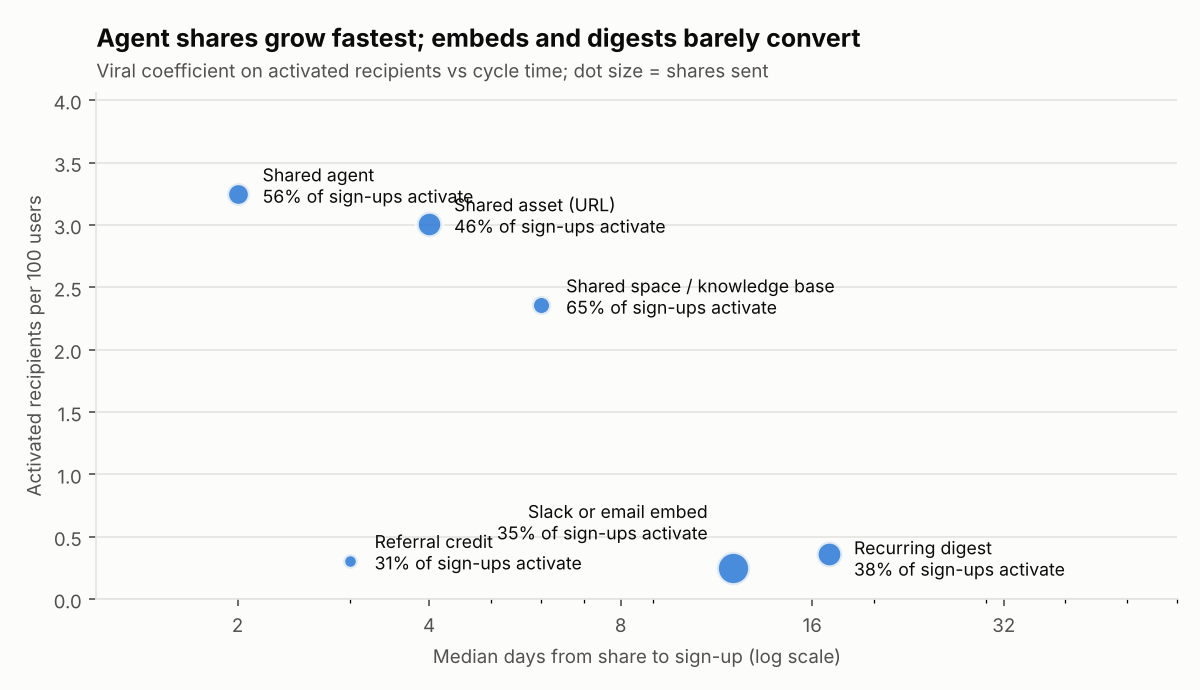
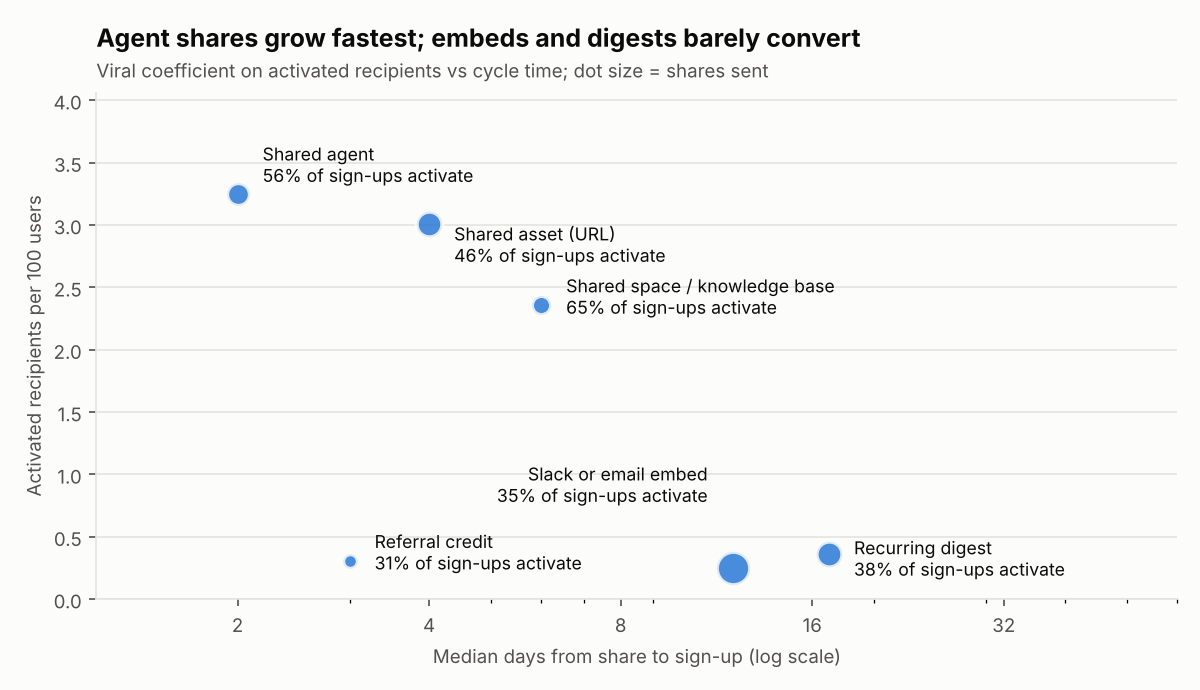
Simulate recipient-side and two-sided sharing rewards
Policies can now reward the sharer, the recipient (a welcome credit on their
first agent action) or both. Recipient behavior is a separate stated
assumption. Existing arms are unchanged. Also fixes overlapping labels in the
viral loops chart.

Claude-Session: https://claude.ai/code/session_01MKijBcGuc5BL7f85fvibV2

Changed region(s): [[0.2158, 0.213, 0.555, 0.3957], [0.4008, 0.6696, 0.5858, 0.7913]]

diff --git a/sangam/policy.py b/sangam/policy.py
@@ -52,6 +52,10 @@ class Policy(BaseModel):
     reward_event: RewardEvent = Field(
         description="What earns the reward: the share being sent, the recipient signing up, or the recipient "
                     "completing their first agent action (activation). 'none' only for a no-reward baseline.")
+    rewarded: Literal["sharer", "recipient", "both"] = Field(
+        default="sharer",
+        description="Who receives the reward: the person who shared (sharer), the person they shared with "
+                    "(recipient, paid on their first agent action), or both.")
     loops: list[Literal["agent", "asset", "space", "embed", "digest", "referral"]] = Field(
         default_factory=lambda: list(LOOPS),
         description="Which kinds of share count: agent (shared agent), asset (shared document, analysis or "
@@ -108,6 +112,12 @@ BUILTIN = {
                                       require_admin_ok_external=False),
     "stage_aware": Policy(name="Stage-aware activation reward", reward_event="recipient_first_agent_action",
                           loop_weights=WEIGHTS, pre_contract=["same_company"], post_contract=["other_company"]),
+    "stage_aware_recipient": Policy(name="Stage-aware, recipient rewarded", rewarded="recipient",
+                                    reward_event="recipient_first_agent_action", loop_weights=WEIGHTS,
+                                    pre_contract=["same_company"], post_contract=["other_company"]),
+    "stage_aware_both": Policy(name="Stage-aware, sharer and recipient rewarded", rewarded="both",
+                               reward_event="recipient_first_agent_action", loop_weights=WEIGHTS,
+                               pre_contract=["same_company"], post_contract=["other_company"]),
 }
 
 # How people respond to each kind of incentive. These are the growth team's stated
@@ -122,6 +132,11 @@ BEHAVIOR = {
     "recipient_first_agent_action": {"uplift": 0.25, "quality": 0.90, "fatigue": 1.00,
                                      "note": "sharers pick people who will actually use it"},
 }
+# A reward for the recipient (a welcome credit on their first agent action) changes the
+# recipient, not the sharer: more of them sign up and more of those activate. Sharers
+# share a little more when they have a gift to offer.
+RECIPIENT_BEHAVIOR = {"signup_lift": 0.15, "activation_lift": 0.20, "sharer_uplift": 0.10,
+                      "note": "a welcome credit nudges recipients to sign up and try an agent"}
 LICENSED_FIRST_ACTION = 0.5     # chance a licensed colleague's first agent action follows a share
 
 
@@ -153,7 +168,14 @@ def render_card(p: Policy) -> str:
     lines = [f"## {p.name}"]
     if p.reward_event == "none":
         return "\n\n".join(lines + ["Nobody earns a reward for sharing."])
-    lines.append(f"**What earns a reward.** A person earns a reward {_EVENT[p.reward_event]}.")
+    if p.rewarded == "recipient":
+        lines.append("**What earns a reward.** The person who receives a share earns a reward when they complete "
+                     "their first agent action. The person who shared earns nothing.")
+    else:
+        lines.append(f"**What earns a reward.** A person earns a reward {_EVENT[p.reward_event]}.")
+        if p.rewarded == "both":
+            lines.append("**The recipient too.** The person they shared with also earns a reward on their first "
+                         "agent action.")
     if p.reward:
         lines.append(f"**The reward.** {p.reward[0].upper() + p.reward[1:]}.")
     stage = []
@@ -273,6 +295,11 @@ def _context(ds: Dataset, ready_rule: dict, outcomes: pd.DataFrame, data_dir="da
 def _simulate_one(ctx: dict, p: Policy) -> dict:
     seg = ctx["seg"].copy()
     b = BEHAVIOR[p.reward_event]
+    rb = RECIPIENT_BEHAVIOR
+    pays_sharer = p.reward_event != "none" and p.rewarded in ("sharer", "both")
+    pays_recipient = p.reward_event != "none" and p.rewarded in ("recipient", "both")
+    if p.reward_event != "none" and p.rewarded == "recipient":
+        b = {"uplift": rb["sharer_uplift"], "quality": 1.0, "fatigue": 1.0, "note": rb["note"]}
     w = p.loop_weights
     if p.reward_event == "none":
         elig = np.zeros(len(seg), bool)
@@ -283,23 +310,31 @@ def _simulate_one(ctx: dict, p: Policy) -> dict:
                 & (p.pay_for_licensed_recipients | ~seg.recipient_licensed)).to_numpy()
     up = np.where(elig, b["uplift"] * seg.loop.map(lambda l: w.get(l, 1.0)), 0.0)
     fat, q = b["fatigue"], b["quality"]
+    sm = 1 + rb["signup_lift"] if pays_recipient else 1.0           # recipient-side lifts, eligible shares only
+    mult = np.where(elig, sm * (1 + rb["activation_lift"]) if pays_recipient else 1.0, 1.0)
+    smult = np.where(elig, sm, 1.0)
     new_users = (~seg.recipient_licensed) * seg.n * (fat + up * q)
     lic_actions = seg.recipient_licensed * seg.n * (1 + up) * seg.view * LICENSED_FIRST_ACTION
-    if p.reward_event == "none":
+    act_new = new_users * seg.act * mult                             # activated new recipients per segment
+    if not pays_sharer:
         paid = 0.0
     elif p.reward_event == "share_sent":
         paid = (seg.n * (1 + up) * elig).sum()
     elif p.reward_event == "recipient_signup":
-        paid = (new_users * seg.signup * elig).sum()
+        paid = (new_users * seg.signup * smult * elig).sum()
     else:
-        paid = ((new_users * seg.act + lic_actions * p.pay_for_licensed_recipients) * elig).sum()
+        paid = ((act_new + lic_actions * p.pay_for_licensed_recipients) * elig).sum()
+    if pays_recipient:
+        paid += (act_new * elig).sum()                               # one welcome credit per activated recipient
     # expansion: extra same-company activated recipients at pre-contract prospects
     rate = seg[(seg.relation == "same_company") & (seg.stage == "pre_contract")].groupby("loop")[
         ["signup", "act"]].mean()
     pre_ok = "same_company" in p.pre_contract and p.reward_event != "none"
     upl = {l: (b["uplift"] * w.get(l, 1.0) if pre_ok and l in p.loops else 0.0) for l in rate.index}
+    rm = {l: (sm * (1 + rb["activation_lift"]) if pre_ok and pays_recipient and l in p.loops else 1.0)
+          for l in rate.index}
     pa = ctx["per_acct"]
-    extra = pa.assign(d=pa.n * pa.loop.map(lambda l: (fat - 1) + upl.get(l, 0) * q)
+    extra = pa.assign(d=pa.n * pa.loop.map(lambda l: (fat + upl.get(l, 0) * q) * rm.get(l, 1.0) - 1)
                       * pa.loop.map(rate.signup) * pa.loop.map(rate.act))
     delta = extra.groupby("sender_account").d.sum().clip(lower=0)
     need = (ctx["k"] - ctx["base_act"].reindex(delta.index).fillna(0)).clip(lower=0)
@@ -307,9 +342,10 @@ def _simulate_one(ctx: dict, p: Policy) -> dict:
     # landing: extra activated external recipients from post-contract senders
     m = ((seg.stage == "post_contract") & (seg.relation == "other_company") & ~seg.recipient_licensed).to_numpy()
     post = seg[m]
-    seeded = float((post.n * (fat - 1 + up[m] * q) * post.signup * post.act).sum() * ctx["seed_rate"])
-    return {"shares": round(float((seg.n * (1 + up)).sum())), "signups": round(float((new_users * seg.signup).sum())),
-            "activated_new_users": round(float((new_users * seg.act).sum())), "rewards_paid": round(float(paid)),
+    seeded = float((post.n * ((fat + up[m] * q) * mult[m] - 1) * post.signup * post.act).sum() * ctx["seed_rate"])
+    return {"shares": round(float((seg.n * (1 + up)).sum())),
+            "signups": round(float((new_users * seg.signup * smult).sum())),
+            "activated_new_users": round(float(act_new.sum())), "rewards_paid": round(float(paid)),
             "extra_prospects_over_trigger": crossed,
             "extra_companies_seeded_by_customers": round(seeded, 1), "assumption": b["note"]}
 

diff --git a/sangam/readme.py b/sangam/readme.py
@@ -61,7 +61,9 @@ def _loop_table(lp: dict) -> str:
 ARM_LABEL = {"no_reward": "No reward (status quo)", "per_share_sent": "Per share sent",
              "per_signup": "Per recipient sign-up", "per_activation": "Per recipient first agent action",
              "per_activation_weighted": "Per first agent action, weighted by share type",
-             "stage_aware": "Stage-aware (see below)"}
+             "stage_aware": "Stage-aware, sharer rewarded (see below)",
+             "stage_aware_recipient": "Stage-aware, recipient rewarded",
+             "stage_aware_both": "Stage-aware, sharer and recipient rewarded"}
 
 
 def _reward_table(lp: dict) -> str:
@@ -230,7 +232,7 @@ The guarded matcher trusts verified domains; treats a matching name as a clue th
 
 {_loop_table(lp)}
 
-**Reward policy simulation.** Six ways to reward sharing, on the same population:
+**Reward policy simulation.** Eight ways to reward sharing, on the same population:
 
 {_reward_table(lp)}
 

diff --git a/sangam/policy_compiler.py b/sangam/policy_compiler.py
@@ -75,6 +75,8 @@ def grade_compile(got: Policy, want: Policy) -> list[str]:
     Wording of defaults and questions is not compared; the NUMBER of open questions must match
     within one, and a policy that should have questions must have at least one."""
     diffs = []
+    if got.rewarded != want.rewarded:
+        diffs.append(f"rewards the {got.rewarded}, should reward the {want.rewarded}")
     if got.reward_event != want.reward_event:
         diffs.append(f"pays on {got.reward_event}, should pay on {want.reward_event}")
     for stage in ("pre_contract", "post_contract"):

diff --git a/sangam/report.py b/sangam/report.py
@@ -263,7 +263,7 @@ def loops_chart(loops: dict, path: Path):
     from .loops import LOOP_LABEL
     sc = loops["scorecard"]
     fig, ax = _fig()
-    offsets = {"embed": (-12, 22), "digest": (12, -2)}
+    offsets = {"embed": (-12, 40), "digest": (12, -2), "agent": (12, 14), "asset": (12, -10)}
     for r in sc:
         x, y = r["median_cycle_days"], r["k_activated_per_100"]
         size = 40 + r["shares"] / 120

diff --git a/README.md b/README.md
@@ -130,7 +130,7 @@ The guarded matcher trusts verified domains; treats a matching name as a clue th
 | Referral credit | 1,218 | 23.9% | 31% | 0.31 | 3 | 12% | 2 | 4 |
 | Slack or email embed | 26,169 | 1.6% | 35% | 0.25 | 12 | 15% | 2 | 3 |
 
-**Reward policy simulation.** Six ways to reward sharing, on the same population:
+**Reward policy simulation.** Eight ways to reward sharing, on the same population:
 
 | Reward fires... | Shares | Extra activated users | Rewards paid | Rewards per extra activated user | Extra prospects over trigger | Extra companies seeded by customers |
 |---|---|---|---|---|---|---|
@@ -139,7 +139,9 @@ The guarded matcher trusts verified domains; treats a matching name as a clue th
 | Per recipient sign-up | 97,416 | +484 | 6,186 | 12.78 | 4.0 | 2.2 |
 | Per recipient first agent action | 86,979 | +605 | 12,198 | 20.16 | 5.0 | 2.7 |
 | Per first agent action, weighted by share type | 84,977 | +773 | 12,488 | 16.16 | 7.3 | 3.4 |
-| Stage-aware (see below) | 73,311 | +294 | 1,340 | 4.56 | 7.3 | 3.4 |
+| Stage-aware, sharer rewarded (see below) | 73,311 | +294 | 1,340 | 4.56 | 7.3 | 3.4 |
+| Stage-aware, recipient rewarded | 71,074 | +578 | 1,624 | 2.81 | 13.1 | 6.7 |
+| Stage-aware, sharer and recipient rewarded | 73,311 | +803 | 3,698 | 4.61 | 18.8 | 9.3 |
 
 The **stage-aware** policy pays on the recipient's first agent action, weights agent and space shares higher, rewards *same-company* shares before a company has a contract (each activated colleague moves it toward the sales trigger), rewards *external* shares to customers and partners after a contract (customers become a distribution channel), and never pays for colleagues who are already licensed. Paying per share sent nearly doubles shares (125,249) for the smallest gain in activated users.
 
